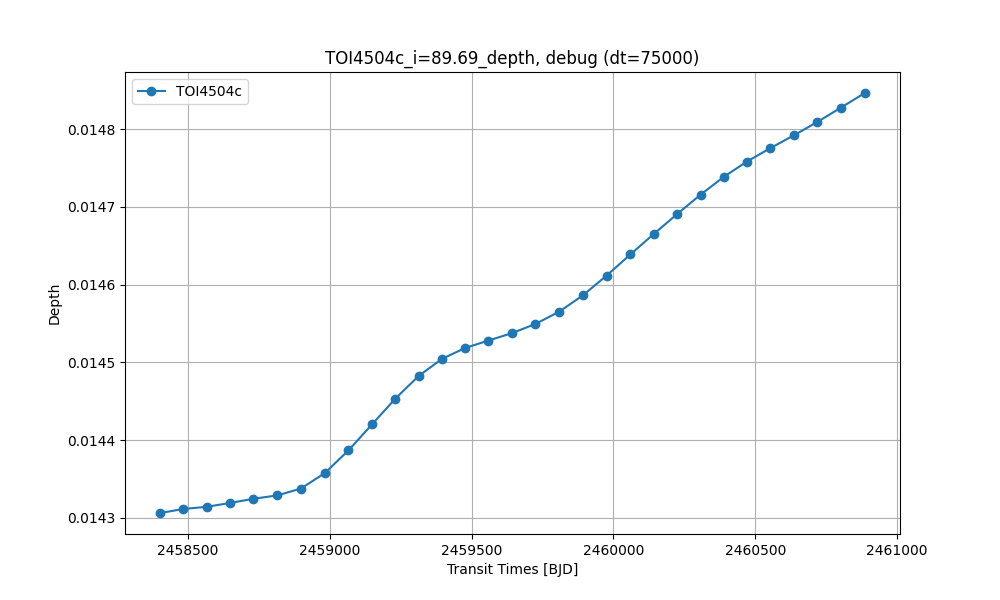
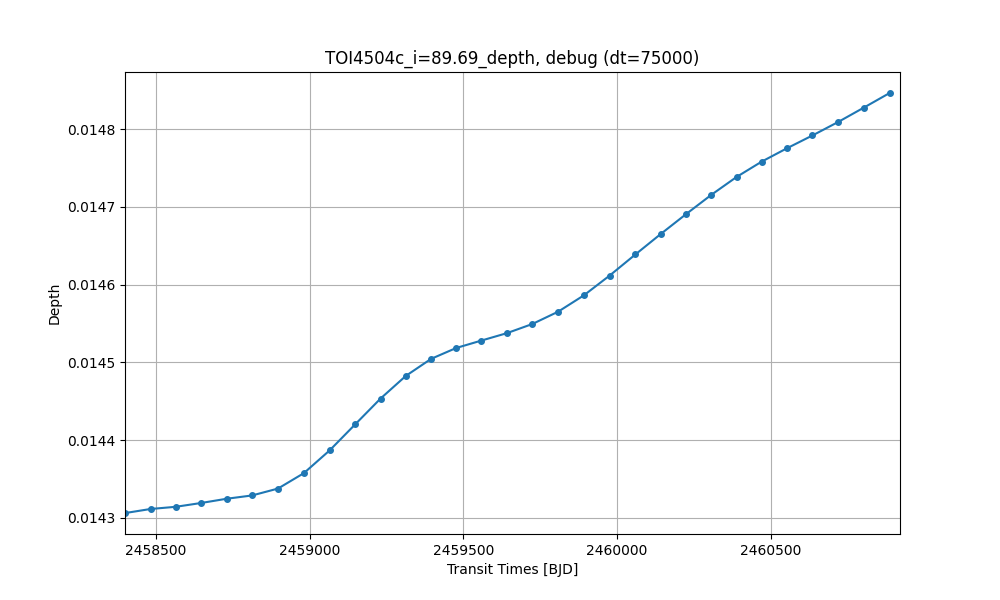
0.5.6 Fitting TOI-4504

diff --git a/src/curvesimulator/cs_results.py b/src/curvesimulator/cs_results.py
@@ -1,6 +1,7 @@
 import json
 import math
 import matplotlib.pyplot as plt
+import numpy as np
 import os
 import re
 
@@ -105,23 +106,69 @@ class CurveSimResults(dict):
     def calc_rv(rebound_sim, p):
         pass
 
-    def plot_this(self, savefilename="", show_plot=False, ylabel="", ybottom=None, ytop=None):
-        plt.xlabel('Transit Times [BJD]')
-        plt.ylabel(ylabel)
-        plt.ylim(bottom=ybottom, top=ytop)
-        plt.ticklabel_format(useOffset=False, style='plain', axis='x')  # show x-labels as they are
-        plt.title(f"{os.path.splitext(os.path.basename(savefilename))[0]}, {self["ProgramParameters"]["comment"]} (dt={self["ProgramParameters"]["dt"]})")
-        plt.legend()
-        plt.grid(True)
-        if savefilename:
-            plt.savefig(savefilename)
+    @staticmethod
+    def plot_this(
+            x: np.ndarray,             # positions of data points on x-axis
+            data_list: list,           # each list item is a list or numpy array which will be displayed as a curve
+            data_labels: list = None,  # each list item is a string representing the label of a curve
+            title: str = None,         # plot title
+            x_label: str = None,       # label of x-axis
+            y_label: str = None,       # label of y-axis
+            marker: str = 'o',         # marker style for each data point
+            markersize: int = 1,       # marker size for each data point
+            linestyle: str = 'None',   # line connecting data points
+            left: float = None,        # cut off x-axis
+            right: float = None,       # cut off x-axis
+            bottom: float = None,      # cut off y-axis
+            top: float = None,         # cut off y-axis
+            legend: bool = None,       # display legend?
+            grid: bool = None,         # display grid?
+            show_plot: bool = False,   # show plot?
+            plot_file: str = None,     # file name if the plot shall be saved as .png
+    ) -> None:
+        if data_labels is None:
+            data_labels = [f"data{i}" for i in range(len(data_list))]
+        plt.figure(figsize=(10, 6))
+        plt.xlabel(x_label)
+        plt.ylabel(y_label)
+        plt.title(title)
+        plt.ticklabel_format(useOffset=False, style='plain', axis='x')   # show x-labels as they are
+        if left or right:
+            plt.xlim(left=left, right=right)
+        if bottom or top:
+            plt.ylim(bottom=bottom, top=top)
+        for data, data_label in zip(data_list, data_labels):
+            plt.plot(x, data, marker=marker, markersize=markersize, linestyle=linestyle, label=data_label)
+            # plt.plot(x, data, marker='o', linestyle='-', label="testtest")
+            print("new:")
+            print(x)
+            print(data)
+
+        if legend:
+            plt.legend()
+        if grid:
+            plt.grid(True)
+        if plot_file:
+            plt.savefig(plot_file)
         if show_plot:
             plt.show()
 
-    def depth(self, body_name, savefilename="", show_plot=False, ybottom=None, ytop=None):
-        plt.figure(figsize=(10, 6))
+    def depth(self, body_name, time_d, savefilename=""):
         transits = self["Bodies"][body_name]["Transits"]
         transit_times = [transit["Transit_params"]["TT"] for transit in transits]
         depths = [transit["Transit_params"]["depth"] for transit in transits]
-        plt.plot(transit_times, depths, 'o-', label=body_name)
-        self.plot_this(savefilename, show_plot,'Depth', ybottom, ytop)
+        self.plot_this(
+            x=transit_times,
+            data_list=[depths],
+            data_labels=[body_name],
+            title=f"{os.path.splitext(os.path.basename(savefilename))[0]}, {self["ProgramParameters"]["comment"]} (dt={self["ProgramParameters"]["dt"]})",
+            x_label='Transit Times [BJD]',
+            y_label='Depth',
+            linestyle='-',
+            markersize=4,
+            grid=True,
+            # left=self["ProgramParameters"]["start_date"],
+            left=time_d[0],
+            right=time_d[-1],
+            plot_file=savefilename,
+        )

diff --git a/src/curvesimulator/curvesim.py b/src/curvesimulator/curvesim.py
@@ -70,7 +70,7 @@ class CurveSimulator:
         p = CurveSimParameters(config_file)  # Read program parameters from config file.
         if p.verbose:
             print(p)
-        if p.flux_file or p.tt_file:  # run fit?
+        if (p.flux_file or p.tt_file) and not p.single_run:  # run fit?
             measured_flux, flux_uncertainty, measured_tt, time_s0, time_d, tt_s0, tt_d = (None,) * 7
             if p.flux_file:
                 time_s0, time_d, measured_flux, flux_uncertainty = CurveSimMCMC.get_measured_flux(p)
@@ -110,8 +110,16 @@ class CurveSimulator:
                 sim_flux.save_sim_flux(p, time_d)
             self.sim_flux = sim_flux
             self.results = results
-            results.depth("TOI4504d", f"TOI4504d_i={bodies[1].i*p.rad2deg:.2f}_depth.png")
-            results.depth("TOI4504c", f"TOI4504c_i={bodies[2].i*p.rad2deg:.2f}_depth.png")
+            # results.depth("TOI4504d", time_d, f"TOI4504d_i={bodies[1].i*p.rad2deg:.2f}_depth.png")
+            # results.depth("TOI4504c", time_d, f"TOI4504c_i={bodies[2].i*p.rad2deg:.2f}_depth.png")
+            vitkova_debug = True
+            if vitkova_debug:
+                measured_tt = CurveSimMCMC.get_measured_tt(p)
+                p.eclipsers = ["TOI4504c"]
+                p.eclipsees = ["TOI4504"]
+                p.bodynames2bodies(bodies)
+                _, measured_tt = CurveSimMCMC.match_transit_times(measured_tt, p, rebound_sim, sim_flux, time_d, time_s0)
+                print(measured_tt)
         self.parameters = p
         self.bodies = bodies
 

diff --git a/src/curvesimulator/cs_parameters.py b/src/curvesimulator/cs_parameters.py
@@ -47,6 +47,7 @@ class CurveSimParameters:
         self.transit_precision = eval(config.get("Results", "transit_precision", fallback="1"))
 
         # [Simulation]
+        self.single_run = eval(config.get("Simulation", "single_run", fallback="False"))
         self.dt = eval(config.get("Simulation", "dt"))
         self.start_date = eval(config.get("Simulation", "start_date", fallback="0.0"))
 
@@ -72,8 +73,8 @@ class CurveSimParameters:
         self.ends_d = np.array(eval(config.get("Simulation", "ends", fallback="[]")), dtype=float)
         self.dts = np.array(eval(config.get("Simulation", "dts", fallback="[]")), dtype=float)
 
+        self.sim_flux_file = config.get("Simulation", "sim_flux_file", fallback=None)
         if self.flux_file is None and self.tt_file is None and self.rv_file is None:  # run simulation, generate video and transit results
-            self.sim_flux_file = config.get("Simulation", "sim_flux_file", fallback="None")
             if self.sim_flux_file == "None":
                 self.sim_flux_file = None
             self.sim_flux_err = eval(config.get("Simulation", "sim_flux_err", fallback="0.0"))

diff --git a/src/run_curvesim.py b/src/run_curvesim.py
@@ -25,9 +25,9 @@ def main():
     # curvesimulation = CurveSimulator(config_file="../configurations/Sim/TOI-4504_SIM_X045.ini")
     # curvesimulation = CurveSimulator(config_file="../configurations/TOI4504/debug.ini")
     # curvesimulation = CurveSimulator(config_file="../configurations/TOI4504/TOI-4504_X050.ini")
-    curvesimulation = CurveSimulator(config_file="../configurations/TOI4504/TOI-4504_T060.ini")
+    # curvesimulation = CurveSimulator(config_file="../configurations/TOI4504/TOI-4504_T060.ini")
     # curvesimulation = CurveSimulator(config_file="../configurations/TOI4504/TOI-4504_F056.ini")
-    # curvesimulation = CurveSimulator(config_file="../configurations/TOI4504/TOI-4504_Vitkova.ini")
+    curvesimulation = CurveSimulator(config_file="../configurations/TOI4504/TOI-4504_Vitkova.ini")
     print(curvesimulation)
 
 
